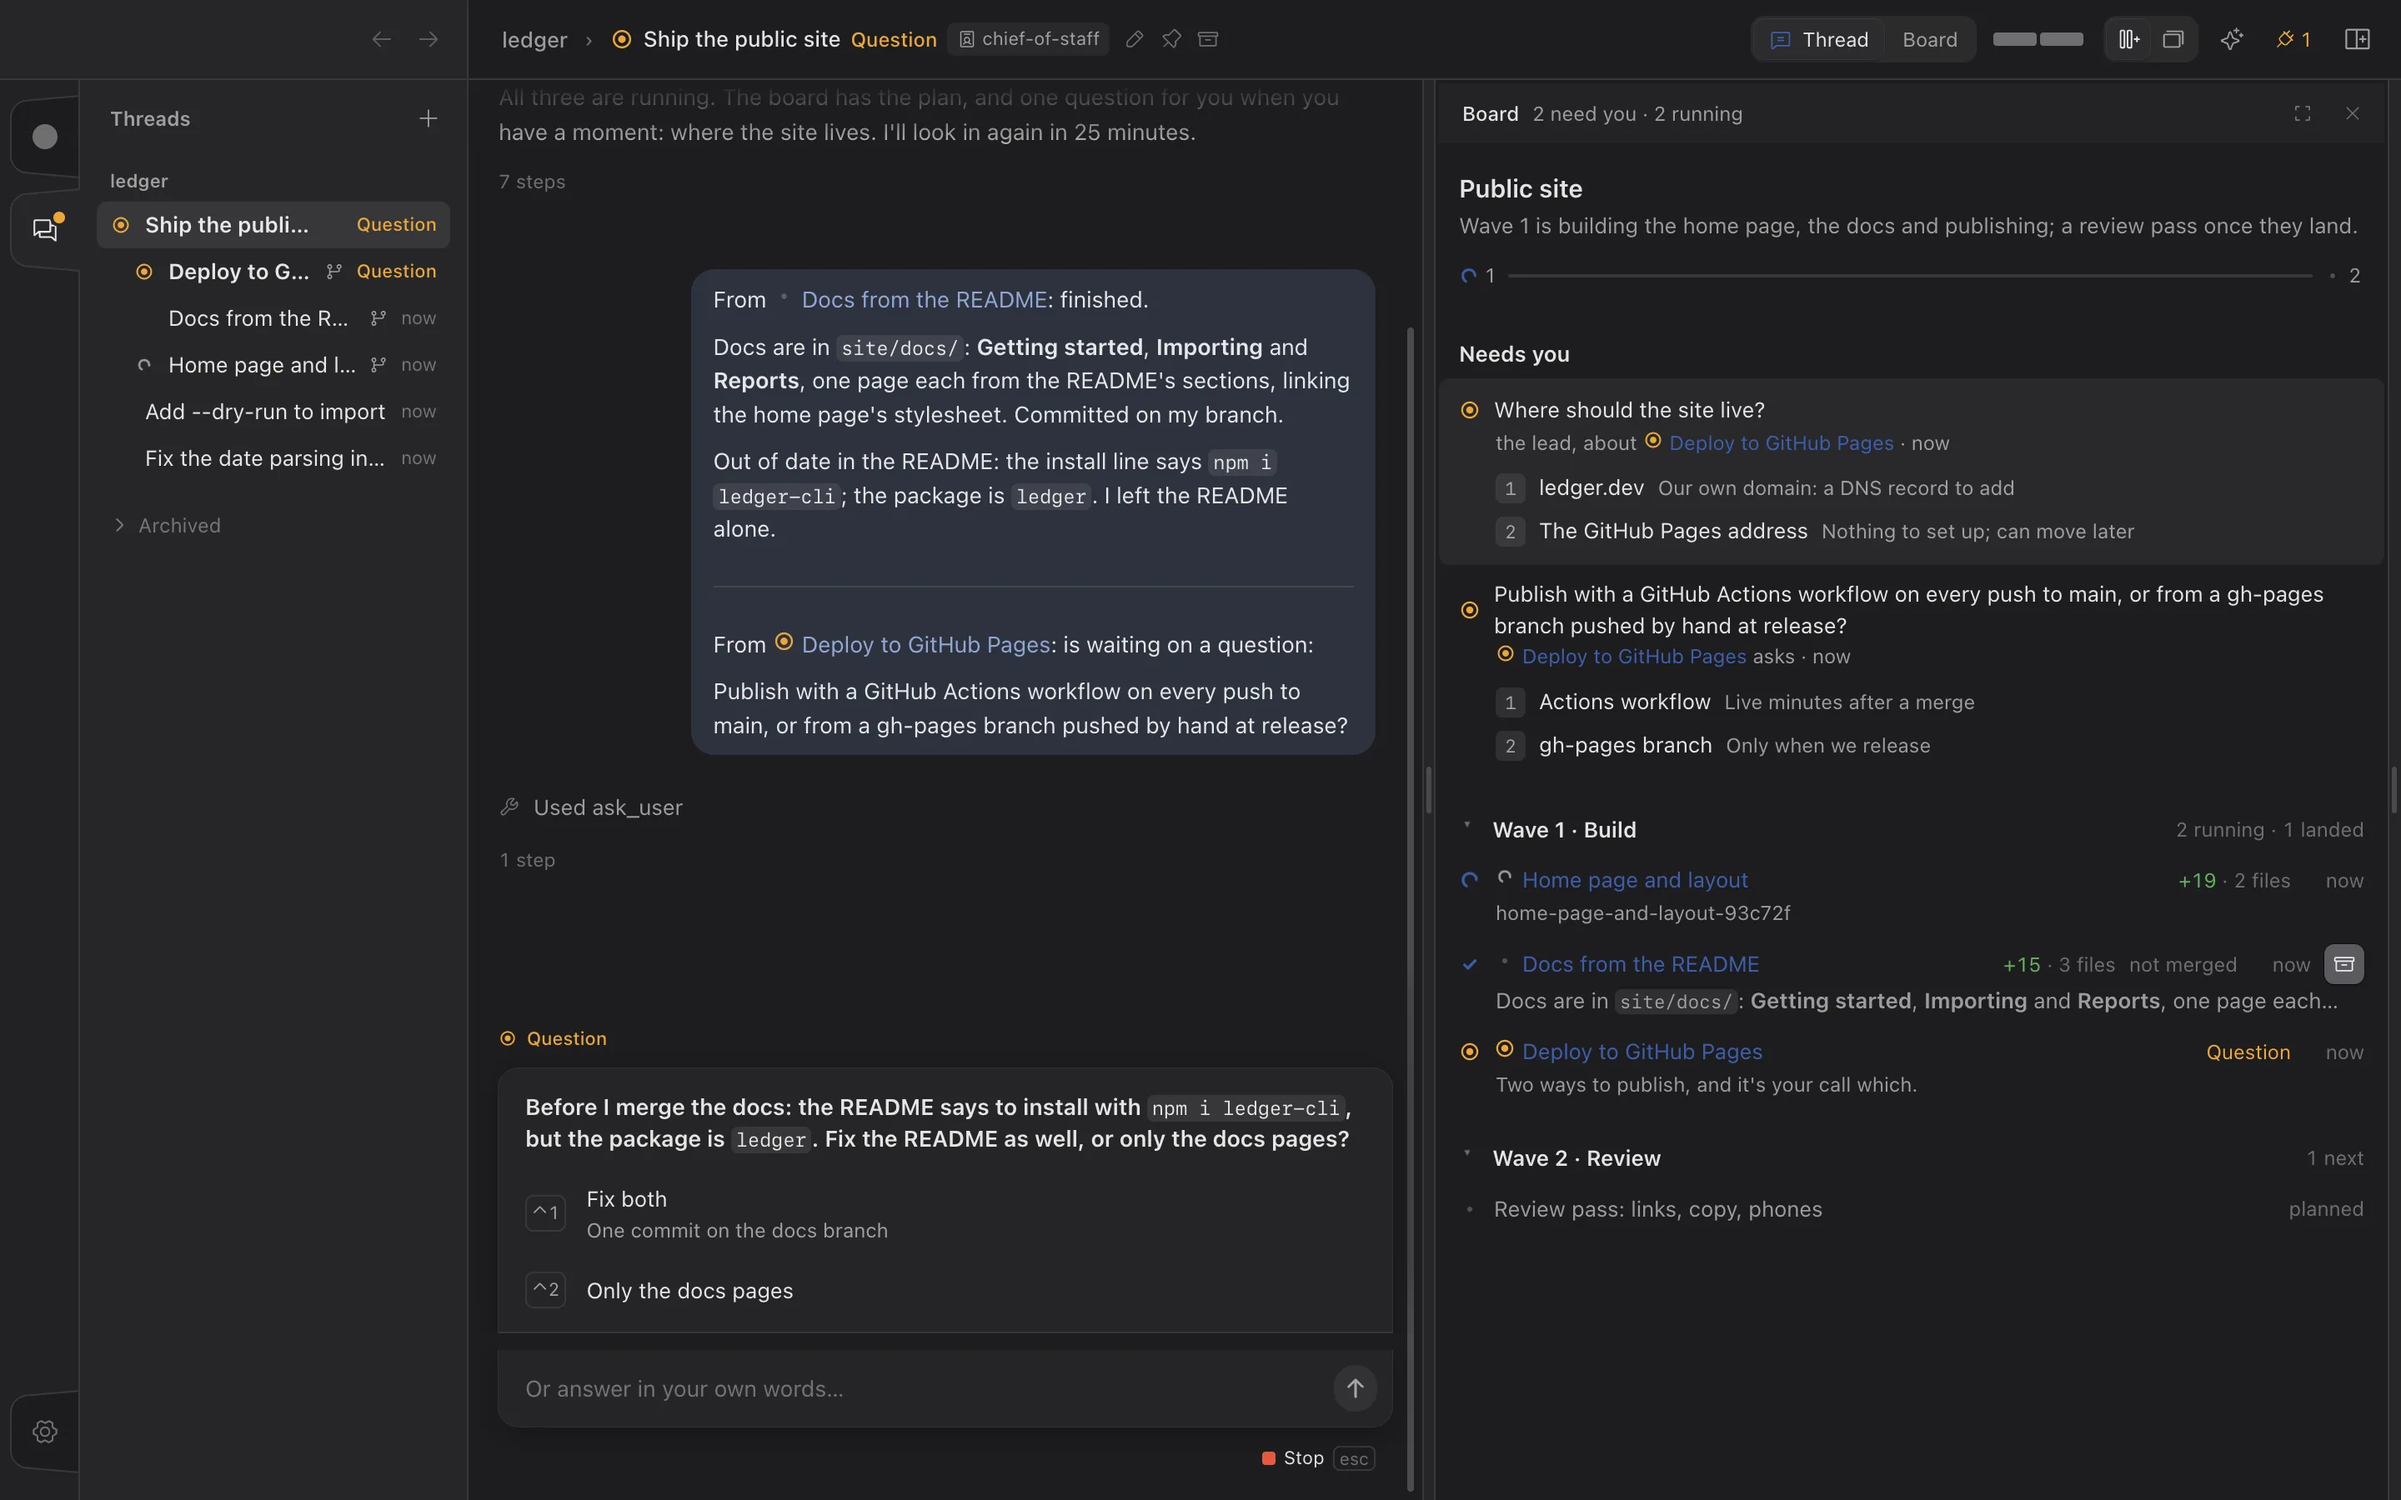
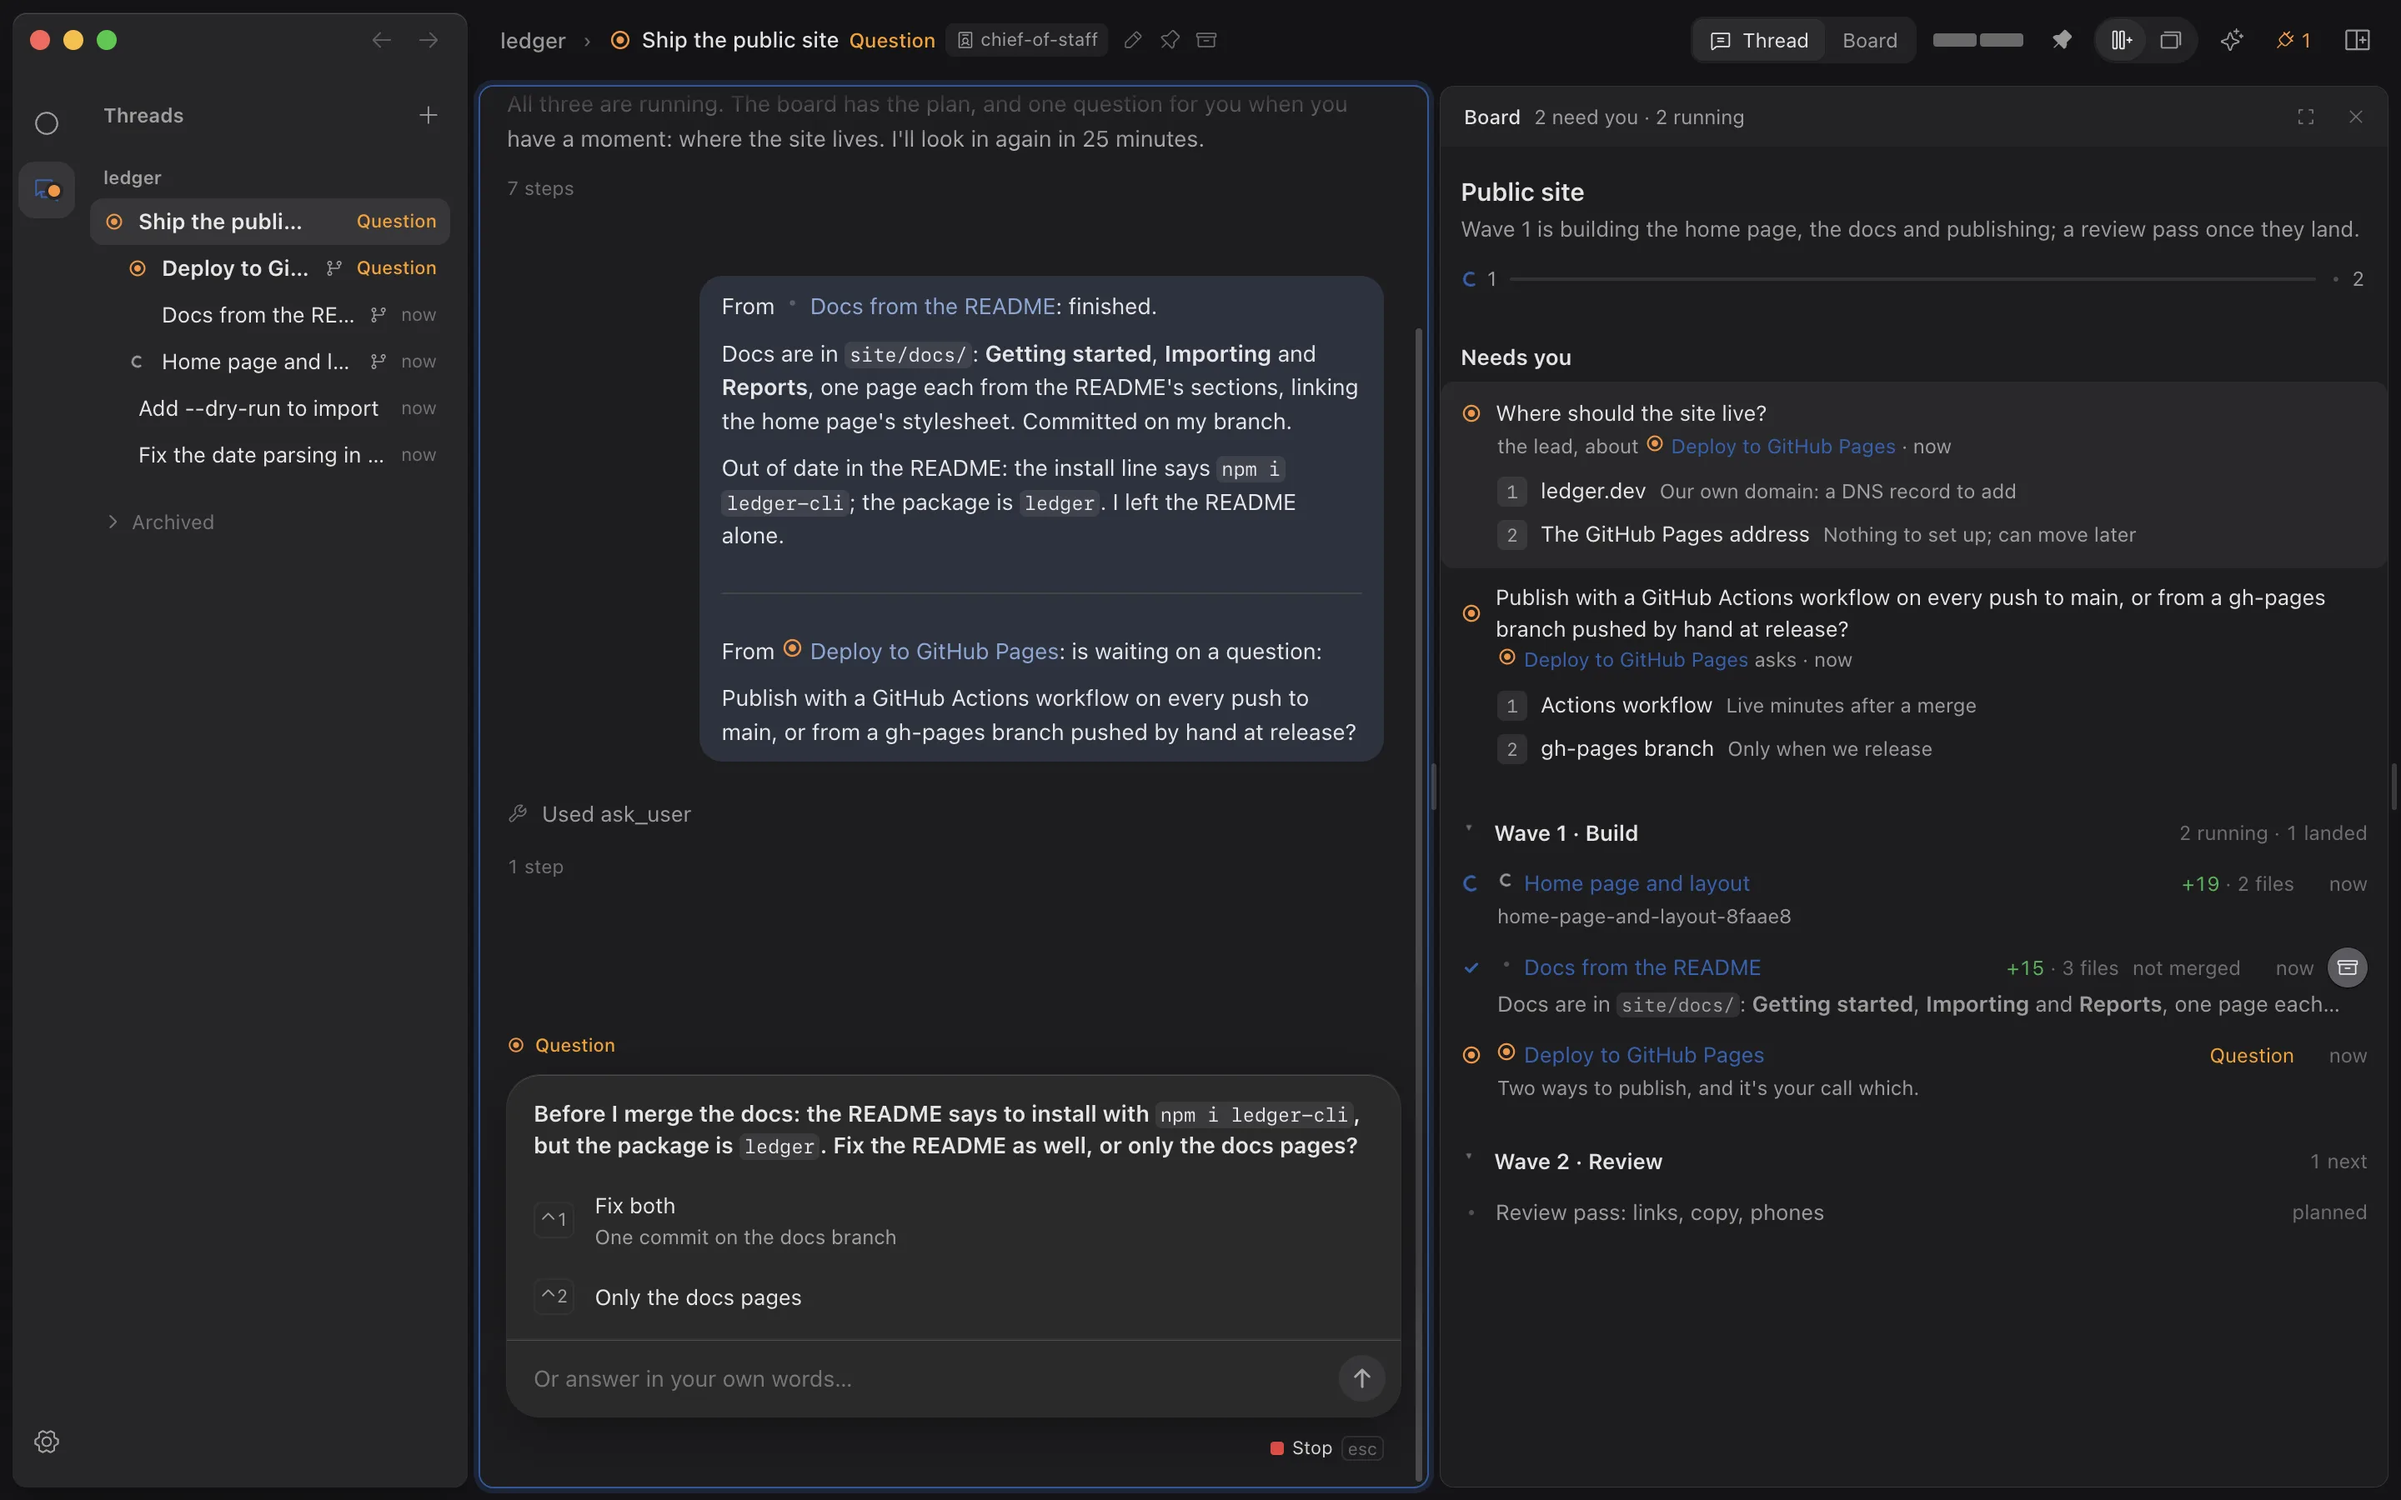
Site: the app's screenshots in its current look, and the README's header a window at work
The home page's hero is look.sh staff again, with the window's buttons and the focus on the thread; the rings still sit on their parts. The README's header (light and dark) and the link preview (og.jpg) are a new look.sh scene, header: threads in three projects and a page built beside its thread. site/shots.sh makes them all.

diff --git a/site/build.ts b/site/build.ts
@@ -168,10 +168,10 @@ function layout(o: { title: string; description?: string; current?: 'docs' | 'ch
 <meta property="og:site_name" content="Superego">
 <meta property="og:title" content="${escape(o.title)}">
 <meta property="og:description" content="${escape(o.description ?? DESCRIPTION)}">
-<meta property="og:image" content="${SITE_URL}og.png">
+<meta property="og:image" content="${SITE_URL}og.jpg">
 <meta property="og:image:width" content="1200">
 <meta property="og:image:height" content="630">
-<meta property="og:image:alt" content="The Superego icon, a halo over a dot, on a blue swirl">
+<meta property="og:image:alt" content="The Superego window: threads in the sidebar, one building a web page, and the page beside it">
 <meta name="twitter:card" content="summary_large_image">
 <link rel="icon" href="${BASE}icon.png">
 <link rel="stylesheet" href="${BASE}style.css">
@@ -288,12 +288,12 @@ export function build() {
   rmSync(OUT, { recursive: true, force: true })
   mkdirSync(OUT, { recursive: true })
   writeFileSync(join(OUT, 'style.css'), `${appTokens()}\n${readFileSync(join(SITE, 'style.css'), 'utf8')}`)
-  // The window, from `app/test/look.sh <dir> staff`: staff-wide-light.png and -dark.png (cwebp -q 82).
+  // The window, from `app/test/look.sh <dir> staff` (site/shots.sh makes them).
   for (const shot of ['screenshot-light.webp', 'screenshot-dark.webp']) cpSync(join(SITE, shot), join(OUT, shot))
   // The byline's avatars, from avatars.githubusercontent.com.
   for (const avatar of ['mikker.png', 'githubnext.png']) cpSync(join(SITE, avatar), join(OUT, avatar))
-  // The link preview: docs/header.webp (the README's), cropped to 1200×630.
-  cpSync(join(SITE, 'og.png'), join(OUT, 'og.png'))
+  // The link preview: the README's header scene at 1200×630 (site/shots.sh).
+  cpSync(join(SITE, 'og.jpg'), join(OUT, 'og.jpg'))
   cpSync(join(ROOT, 'app/resources/icon.png'), join(OUT, 'icon.png'))
   write('', home())
   for (const page of docs) write(urlOf(page).slice(BASE.length), docPage(page, render(page)))

diff --git a/site/home.ts b/site/home.ts
@@ -1,6 +1,6 @@
 // The home page: what Superego is, one configured workbench (the Chief of Staff) with marker rings on the parts that
 // were asked for, what's built in, and what an extension can add. The screenshot is `app/test/look.sh <dir> staff`'s
-// staff-wide frame, 1440×900; rings are in that frame's points.
+// staff-wide frame, 1440×900 (site/shots.sh); rings are in that frame's points.
 
 /** A part of the screenshot, ringed and numbered, and what was asked for to get it. */
 type Callout = { ring: [cx: number, cy: number, rx: number, ry: number]; asked: string }

diff --git a/site/dev.ts b/site/dev.ts
@@ -19,6 +19,7 @@ const types: Record<string, string> = {
   '.svg': 'image/svg+xml',
   '.png': 'image/png',
   '.webp': 'image/webp',
+  '.jpg': 'image/jpeg',
 }
 
 let failure = ''

diff --git a/README.md b/README.md
@@ -1,4 +1,4 @@
-<p align="center"><img src="docs/header.webp" alt="Superego" width="800"></p>
+<p align="center"><picture><source media="(prefers-color-scheme: dark)" srcset="docs/header-dark.webp"><img src="docs/header.webp" alt="The Superego window: threads in the sidebar, one building a web page, and the page beside it" width="800"></picture></p>
 
 # Superego
 
